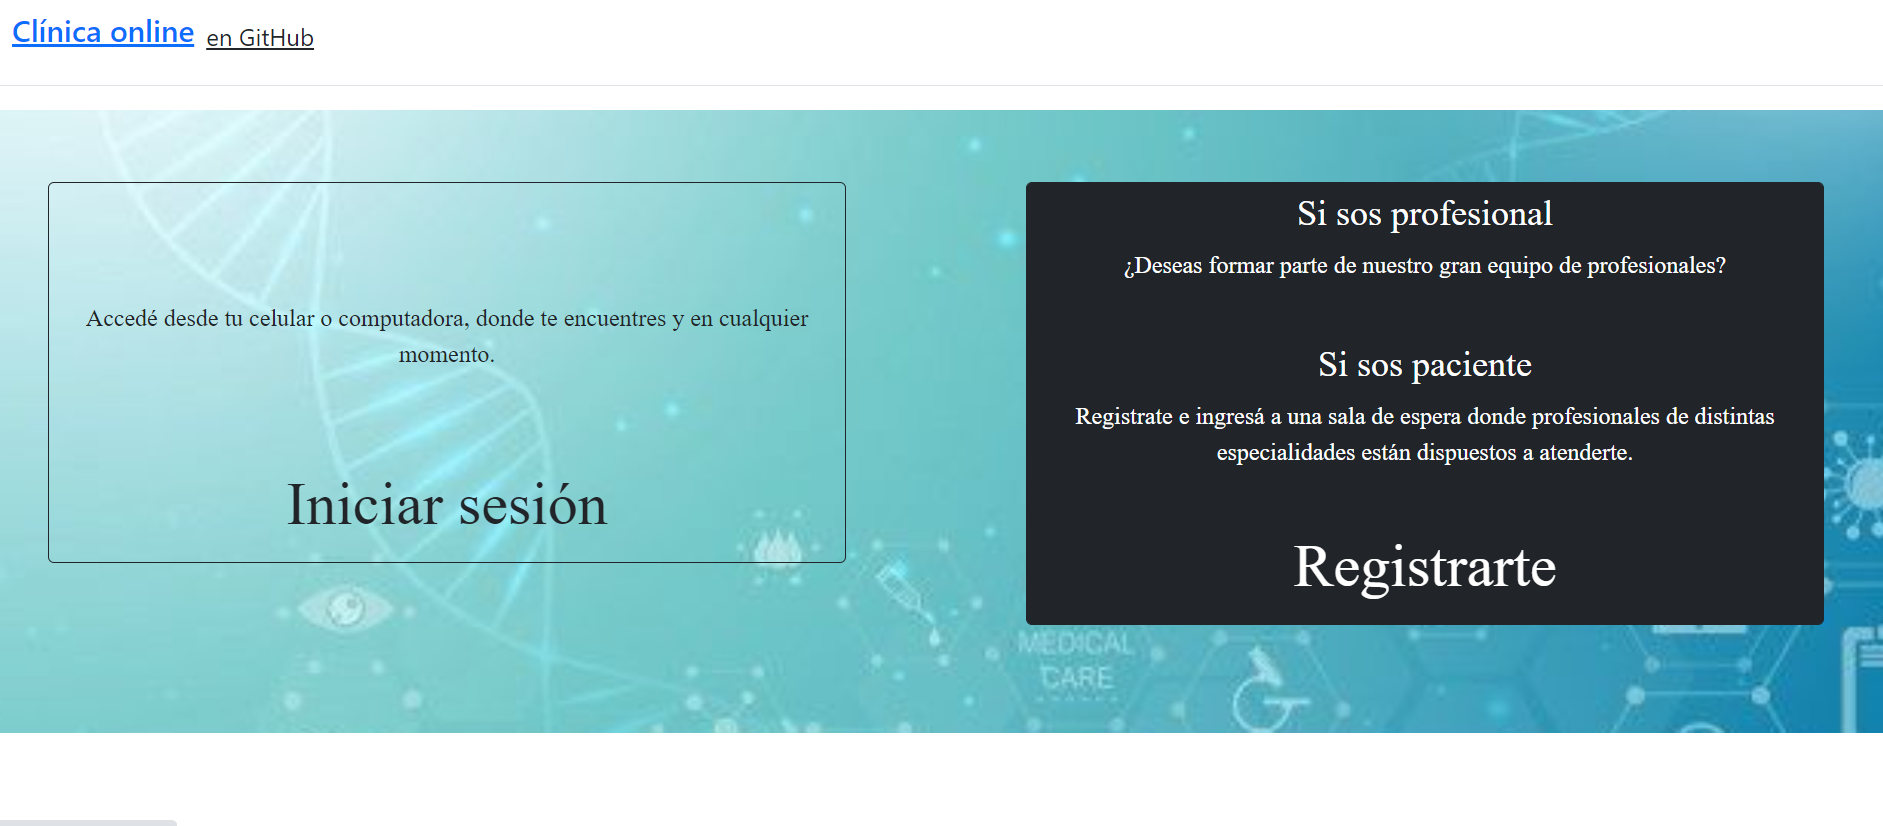
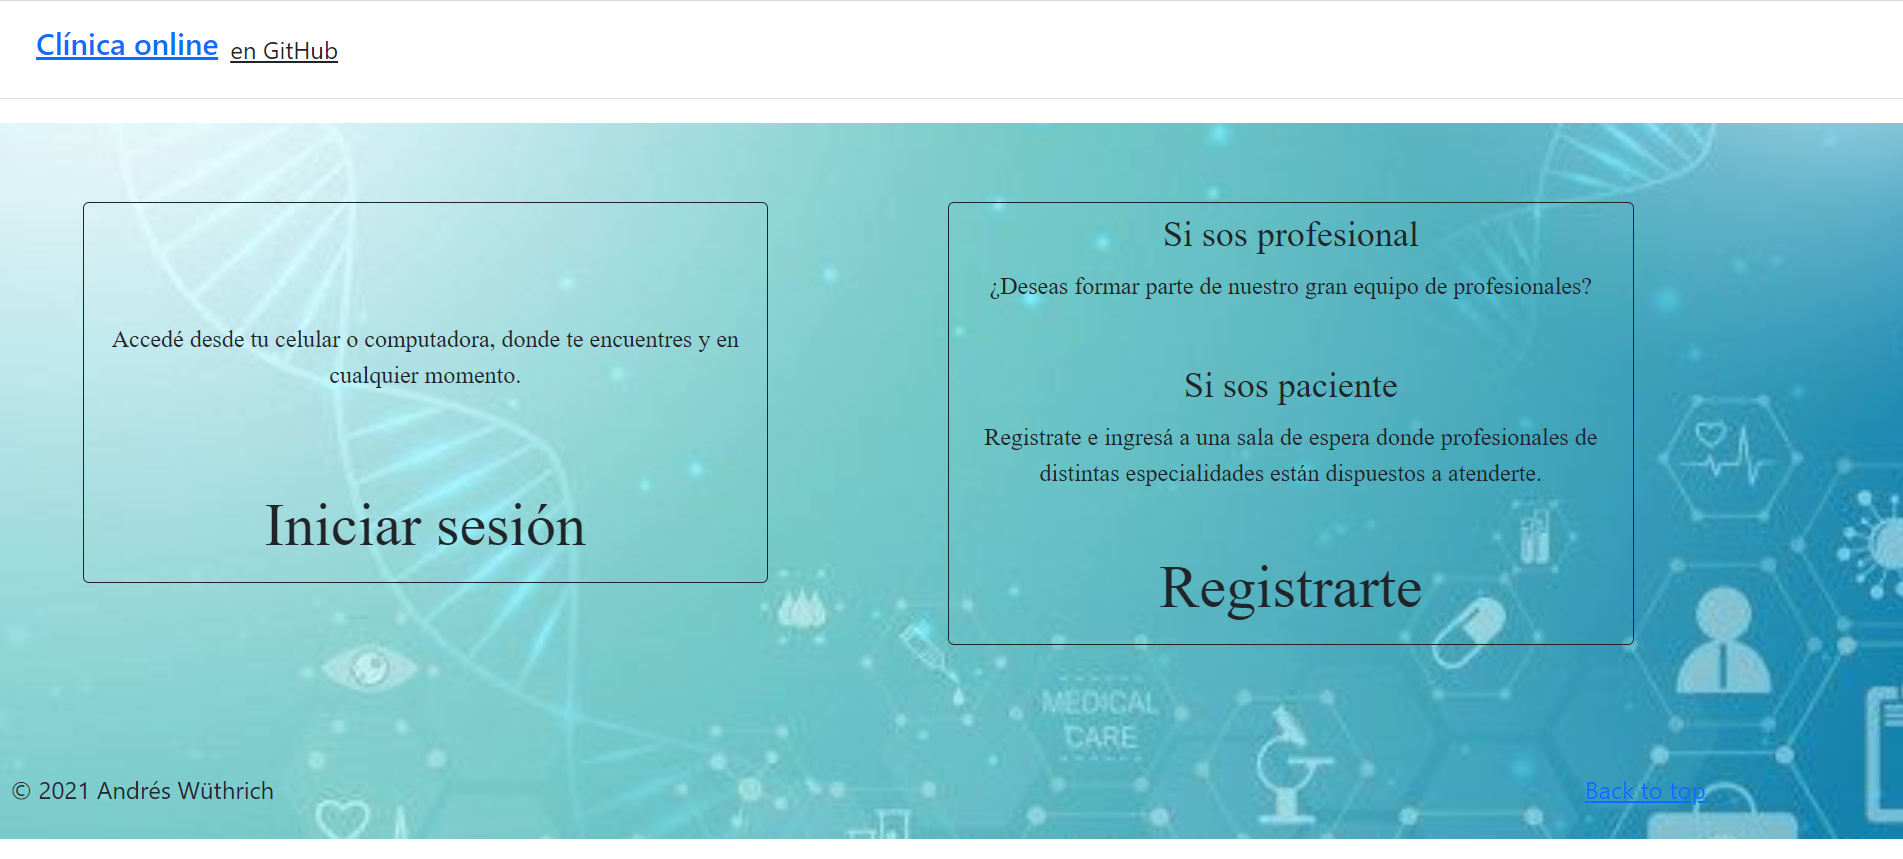
14to commit. directiva + informe + pacientes

diff --git a/src/app/pages/bienvenido/bienvenido.component.html b/src/app/pages/bienvenido/bienvenido.component.html
@@ -5,7 +5,7 @@
 
 <main class="foto">
 
-    <div id="myCarousel" class="carousel slide" data-bs-ride="carousel">
+    <!-- <div id="myCarousel" class="carousel slide" data-bs-ride="carousel">
       <div class="carousel-indicators">
         <button type="button" data-bs-target="#myCarousel" data-bs-slide-to="0" class="active" aria-current="true" aria-label="Slide 1"></button>
         <button type="button" data-bs-target="#myCarousel" data-bs-slide-to="1" aria-label="Slide 2"></button>
@@ -54,7 +54,7 @@
         <span class="carousel-control-next-icon" aria-hidden="true"></span>
         <span class="visually-hidden">Next</span>
       </button>
-    </div>
+    </div> -->
   
   
     <!-- Marketing messaging and featurettes

diff --git a/src/app/navbar/navbar.component.html b/src/app/navbar/navbar.component.html
@@ -15,7 +15,7 @@
     </nav>
     
     <div class="d-flex flex-column flex-md-row align-items-center p-3 px-md-4 mb-3 bg-white" *ngIf="userLogueado | async as user; else login">
-      <h5 class="my-0 mr-md-auto font-weight-normal">Bienvenidx <i>{{ (userLogueado | async)?.email}}</i> !!  </h5>
+      <h5 class="my-0 mr-md-auto font-weight-normal">Bienvenidx <i>{{ (userLogueado | async)?.email | uppercase }}</i> !!  </h5>
       <nav class="my-2 my-md-0 mr-md-3">
         <a class="btn btn-outline-primary" (click)='Logout()'>Logout</a>
         <!-- <div *ngIf="perfil!='paciente' && perfil!='especialista'"> -->

diff --git a/src/app/pipes/upper.pipe.ts b/src/app/pipes/upper.pipe.ts
@@ -5,8 +5,19 @@ import { Pipe, PipeTransform } from '@angular/core';
 })
 export class UpperPipe implements PipeTransform {
 
-  transform(value: unknown, ...args: unknown[]): unknown {
-    return null;
+  transform(value: any, arg: any): any {
+    const resultado=[];
+
+    for(const user of value){
+      if(user.perfil.toUpperCase().indexOf(arg.toUpperCase()) > -1){
+        resultado.push(user);
+      } else{
+        if(user.email.toUpperCase().indexOf(arg.toUpperCase()) > -1){
+          resultado.push(user);
+        }
+      }
+    }
+    return resultado;
   }
 
 }

diff --git a/src/app/navbar/navbar.component.ts b/src/app/navbar/navbar.component.ts
@@ -1,6 +1,7 @@
 import { Component, OnInit } from '@angular/core';
 import { Observable } from 'rxjs';
 import { AuthService } from '../services/auth.service';
+import { UpperPipe } from 'src/app/pipes/upper.pipe';
 
 @Component({
   selector: 'app-navbar',

diff --git a/README.md b/README.md
@@ -20,7 +20,6 @@ TP Final Laboratorio IV 2021 - UTNFRA - Técnico superior en programación.
 
 ![principal](http://octaviovillegas.github.io/CursoIngresoJS/img/principal.gif)
 
-
 -----
 ## Perfiles 
 >Se permiten los sig. perfiles:
